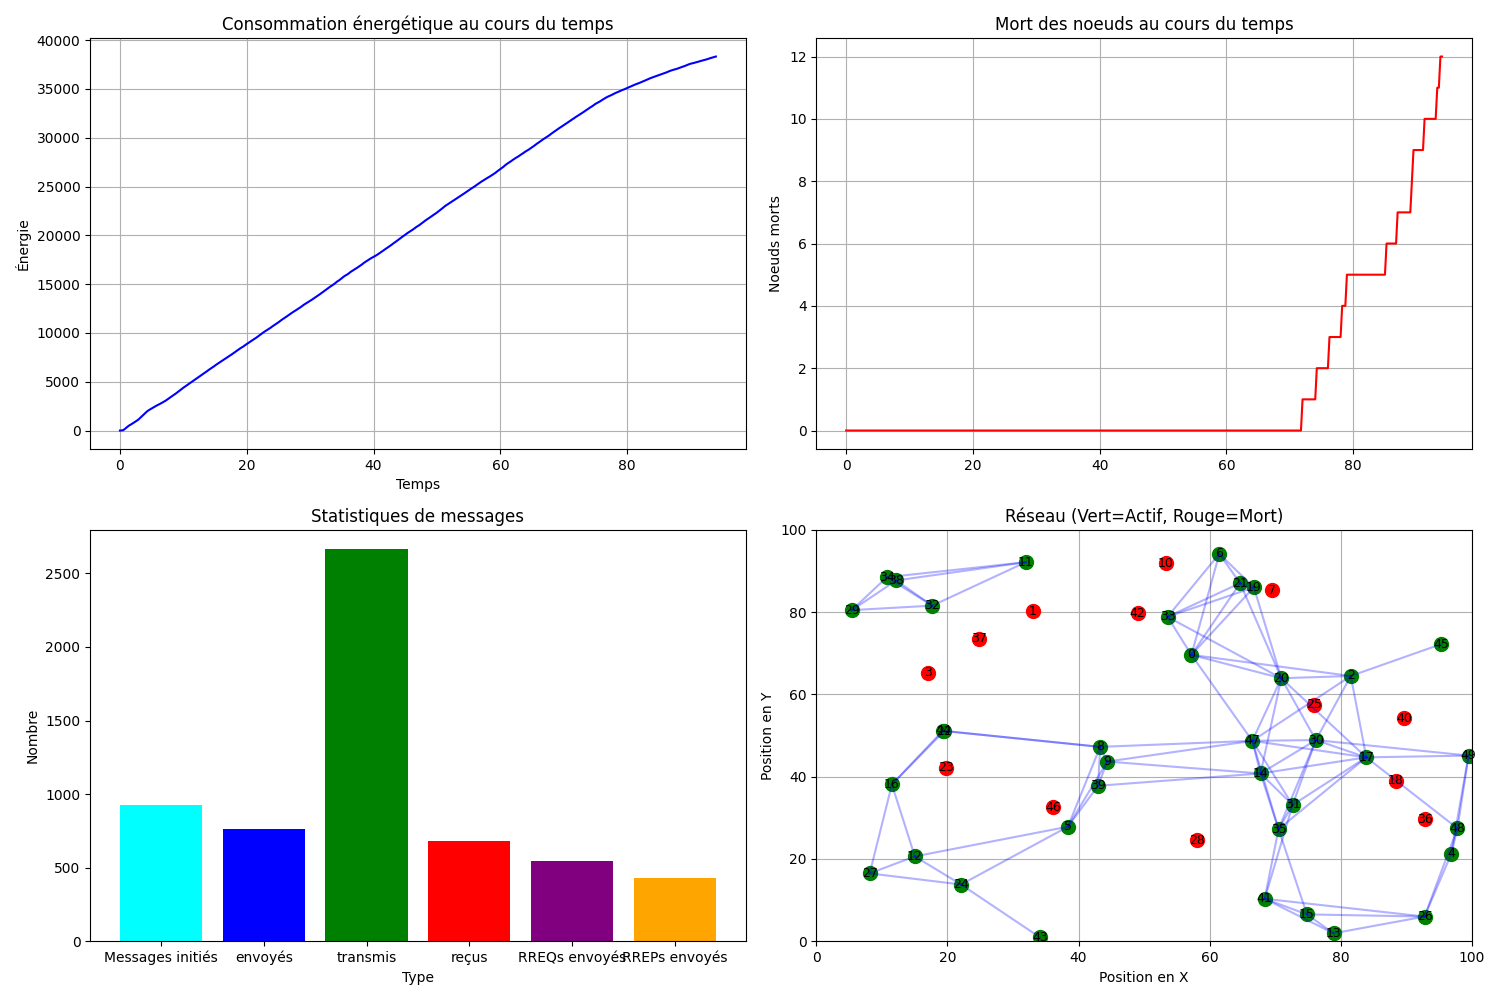
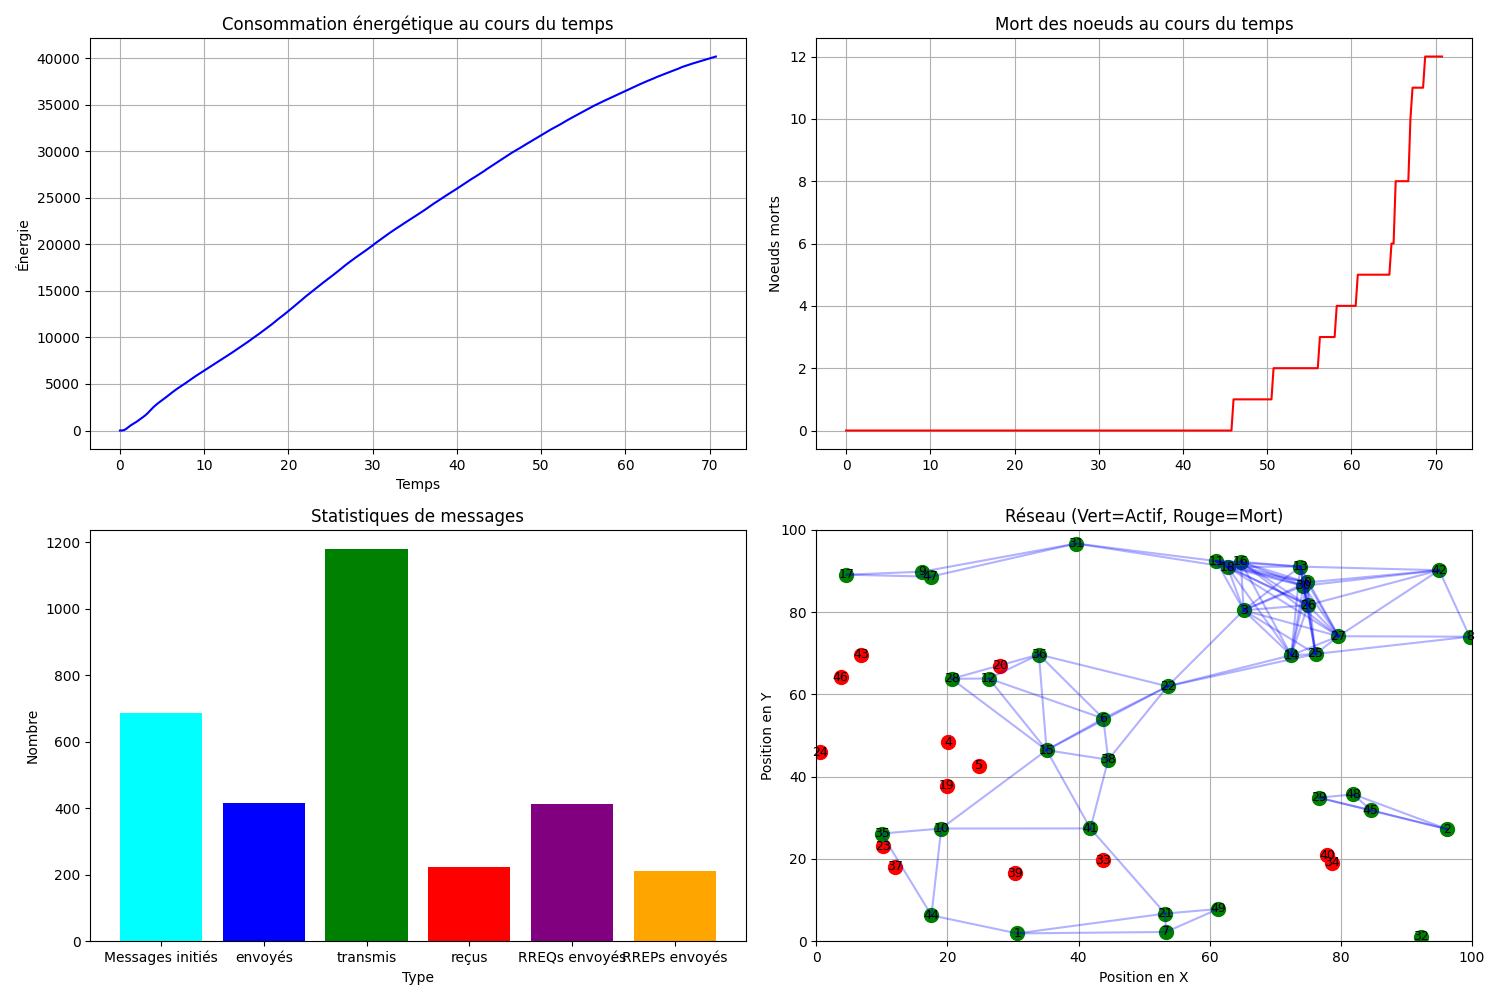
Modifié pour prendre en compte le poids dans la vérif au moment de traiter un RREQ

diff --git a/Codes/Avec Métriques/aodv_test_script.py b/Codes/Avec Métriques/aodv_test_script.py
@@ -15,9 +15,9 @@ class Message:
         self.weight = weight
         self.prev_hop = prev_hop
         
-    def __repr__(self):
-        return (f"Message({self.type}, src={self.src_id}, dest={self.dest_id}, "
-                f"prev_hop={self.prev_hop}, weight={self.weight:.2f})")
+    # def __repr__(self):
+    #     return (f"Message({self.type}, src={self.src_id}, dest={self.dest_id}, "
+    #             f"prev_hop={self.prev_hop}, weight={self.weight:.2f})")
 
 class Node:
     def __init__(self, env, id, pos, initial_battery, max_dist, network):
@@ -31,7 +31,7 @@ class Node:
         self.max_dist = max_dist
         self.alive = True
         self.network = network
-        self.seen = set()
+        self.seen = {} # (rreq.src_id, rreq.src_seq, rreq.prev_hop) : meilleur poids
         self.pending_rreqs = {}
         self.to_be_sent = defaultdict(list)
         self.env.process(self.process_messages())
@@ -43,7 +43,6 @@ class Node:
             processing_delay = random.uniform(0.001, 0.005)
             yield self.env.timeout(processing_delay) # on bloque pour simuler un délai de processing
             
-            # print(f"[{self.env.now:.4f}] Node {self.id} received: {msg}")
             
             if msg.type == "RREQ":
                 self.handle_rreq(msg)
@@ -53,7 +52,6 @@ class Node:
                 self.handle_data(msg)
 
     def init_rreq(self, dest_id):
-        # print(f"[{self.env.now:.4f}] Node {self.id} INIT_RREQ to {dest_id}")
         self.seq_num += 1 # IMPORTANT ! 
         self.network.rreq_sent += 1
 
@@ -70,14 +68,20 @@ class Node:
         self.env.process(self.network.broadcast_rreq(self, rreq))
 
     def handle_rreq(self, rreq):
-        # print(f"[{self.env.now:.4f}] Node {self.id} HANDLE_RREQ from {rreq.src_id} via {rreq.prev_hop}")
         
-        seen_key = (rreq.src_id, rreq.src_seq, rreq.prev_hop)
-        if seen_key in self.seen or rreq.src_id == self.id:
+        if rreq.src_id == self.id:
             return #on discard si on a déjà vu : évite les **boucles** ♥
                    #éviter que les RREQs soient renvoyés à la source       
         
-        self.seen.add(seen_key)
+        seen_key = (rreq.src_id, rreq.src_seq, rreq.prev_hop)
+        if seen_key in self.seen:
+            if rreq.weight >= self.seen[seen_key]:
+                return
+            else:
+                self.seen[seen_key] = rreq.weight
+
+        else:
+            self.seen[seen_key] = rreq.weight
 
         prev_node = self.network.G.nodes[rreq.prev_hop]["obj"]
         weight = self.network.calculate_weight(prev_node, self) #inclus la pénalité si batterie en dessous du seuil
